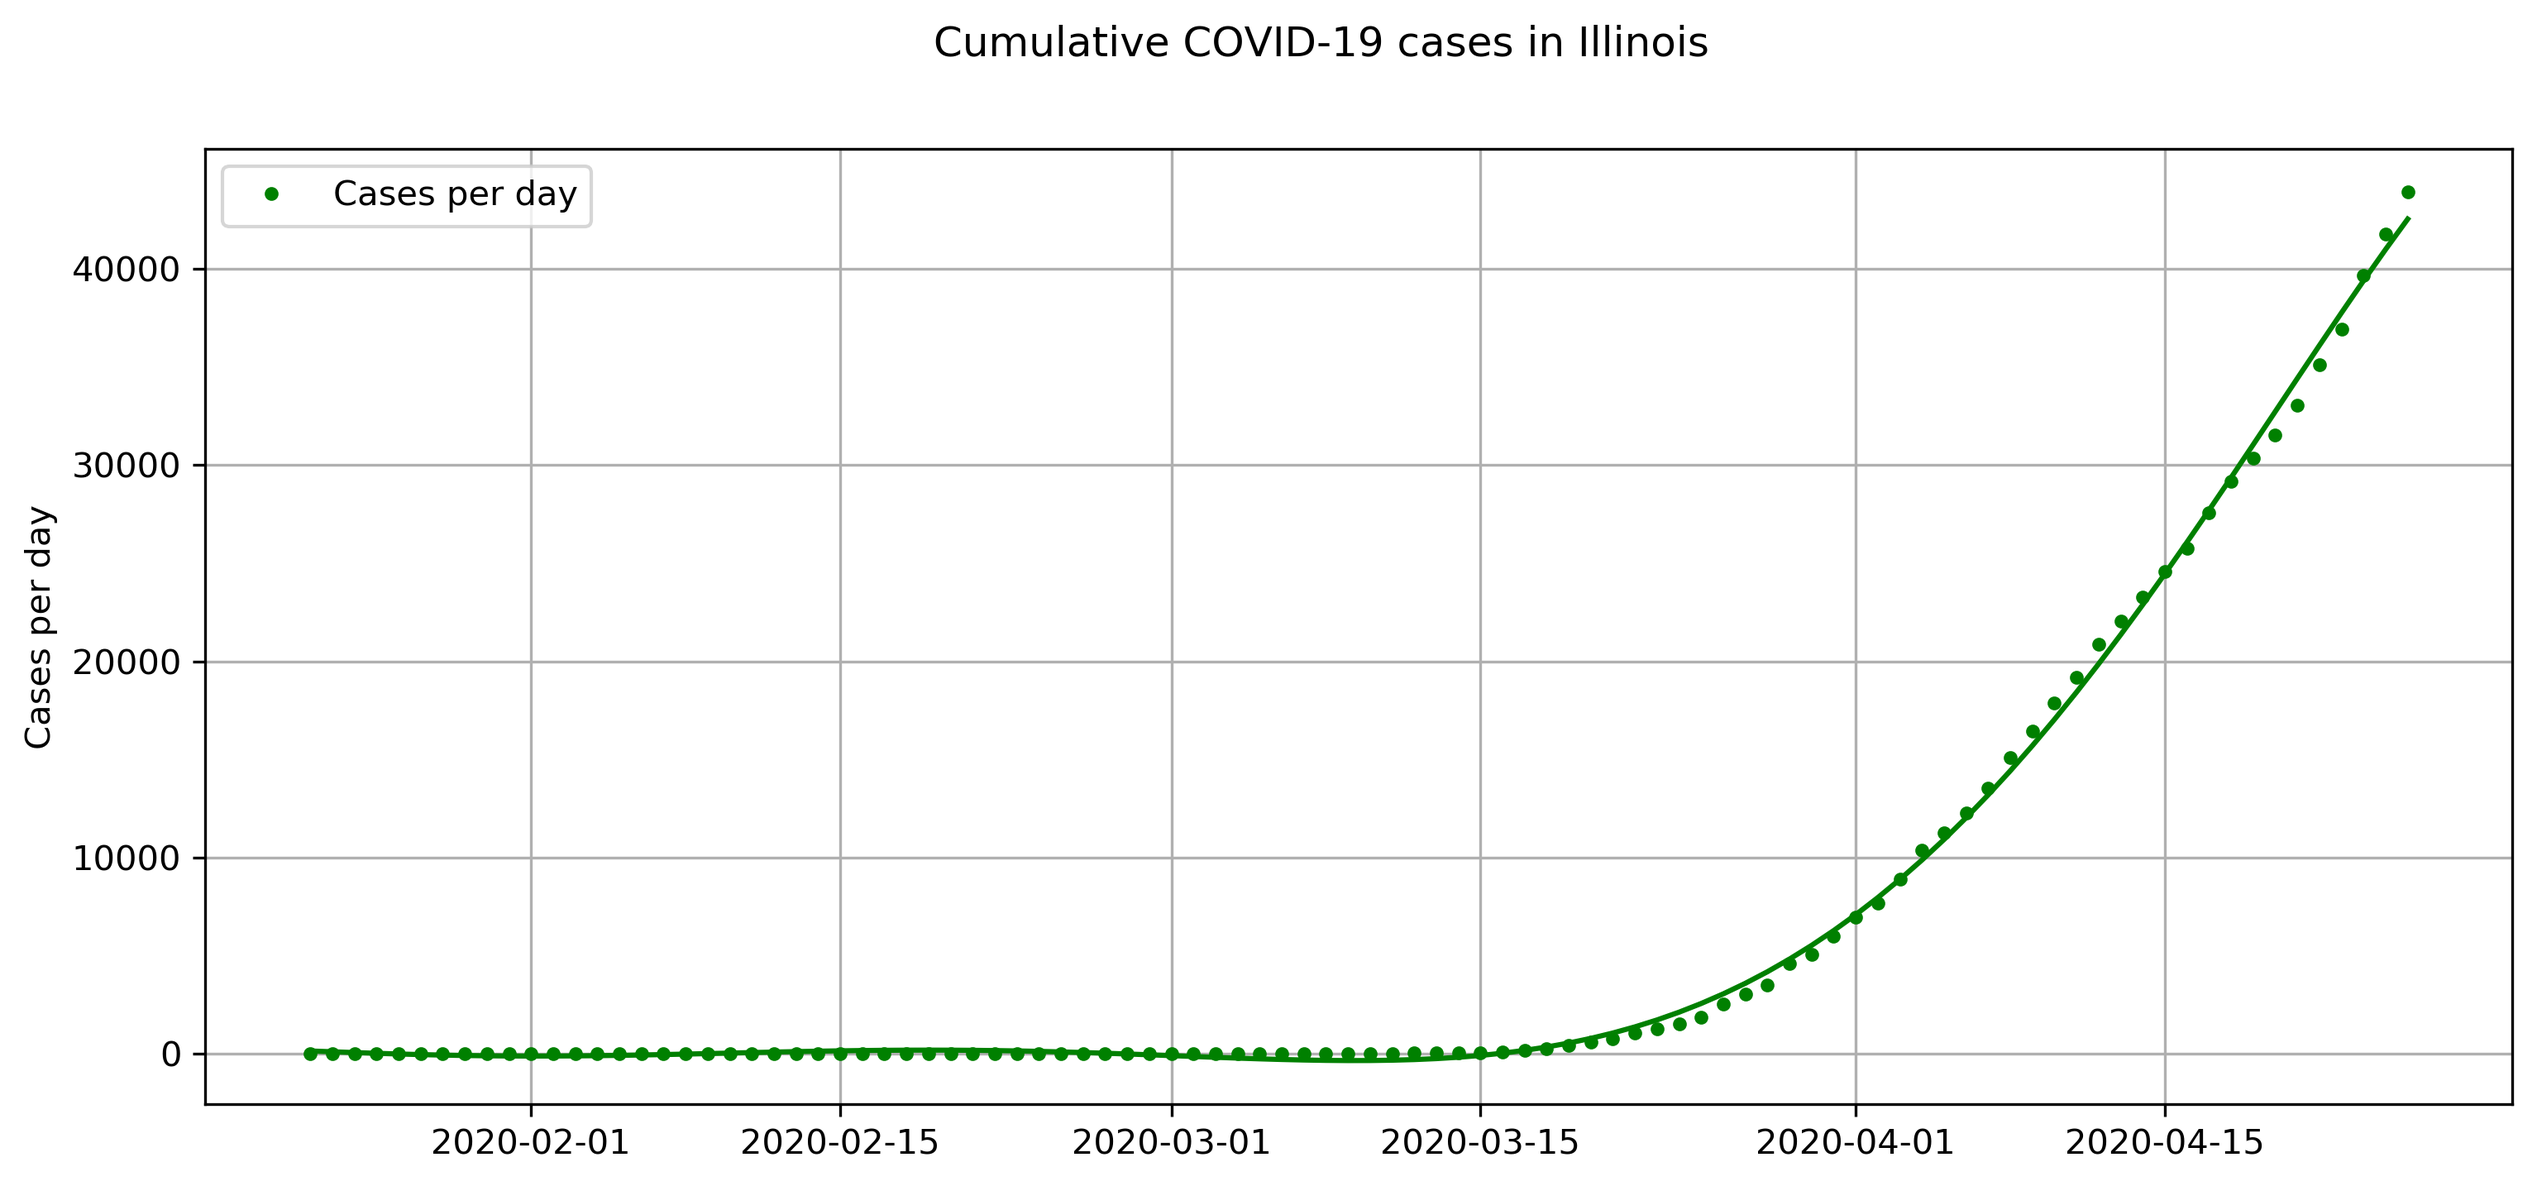
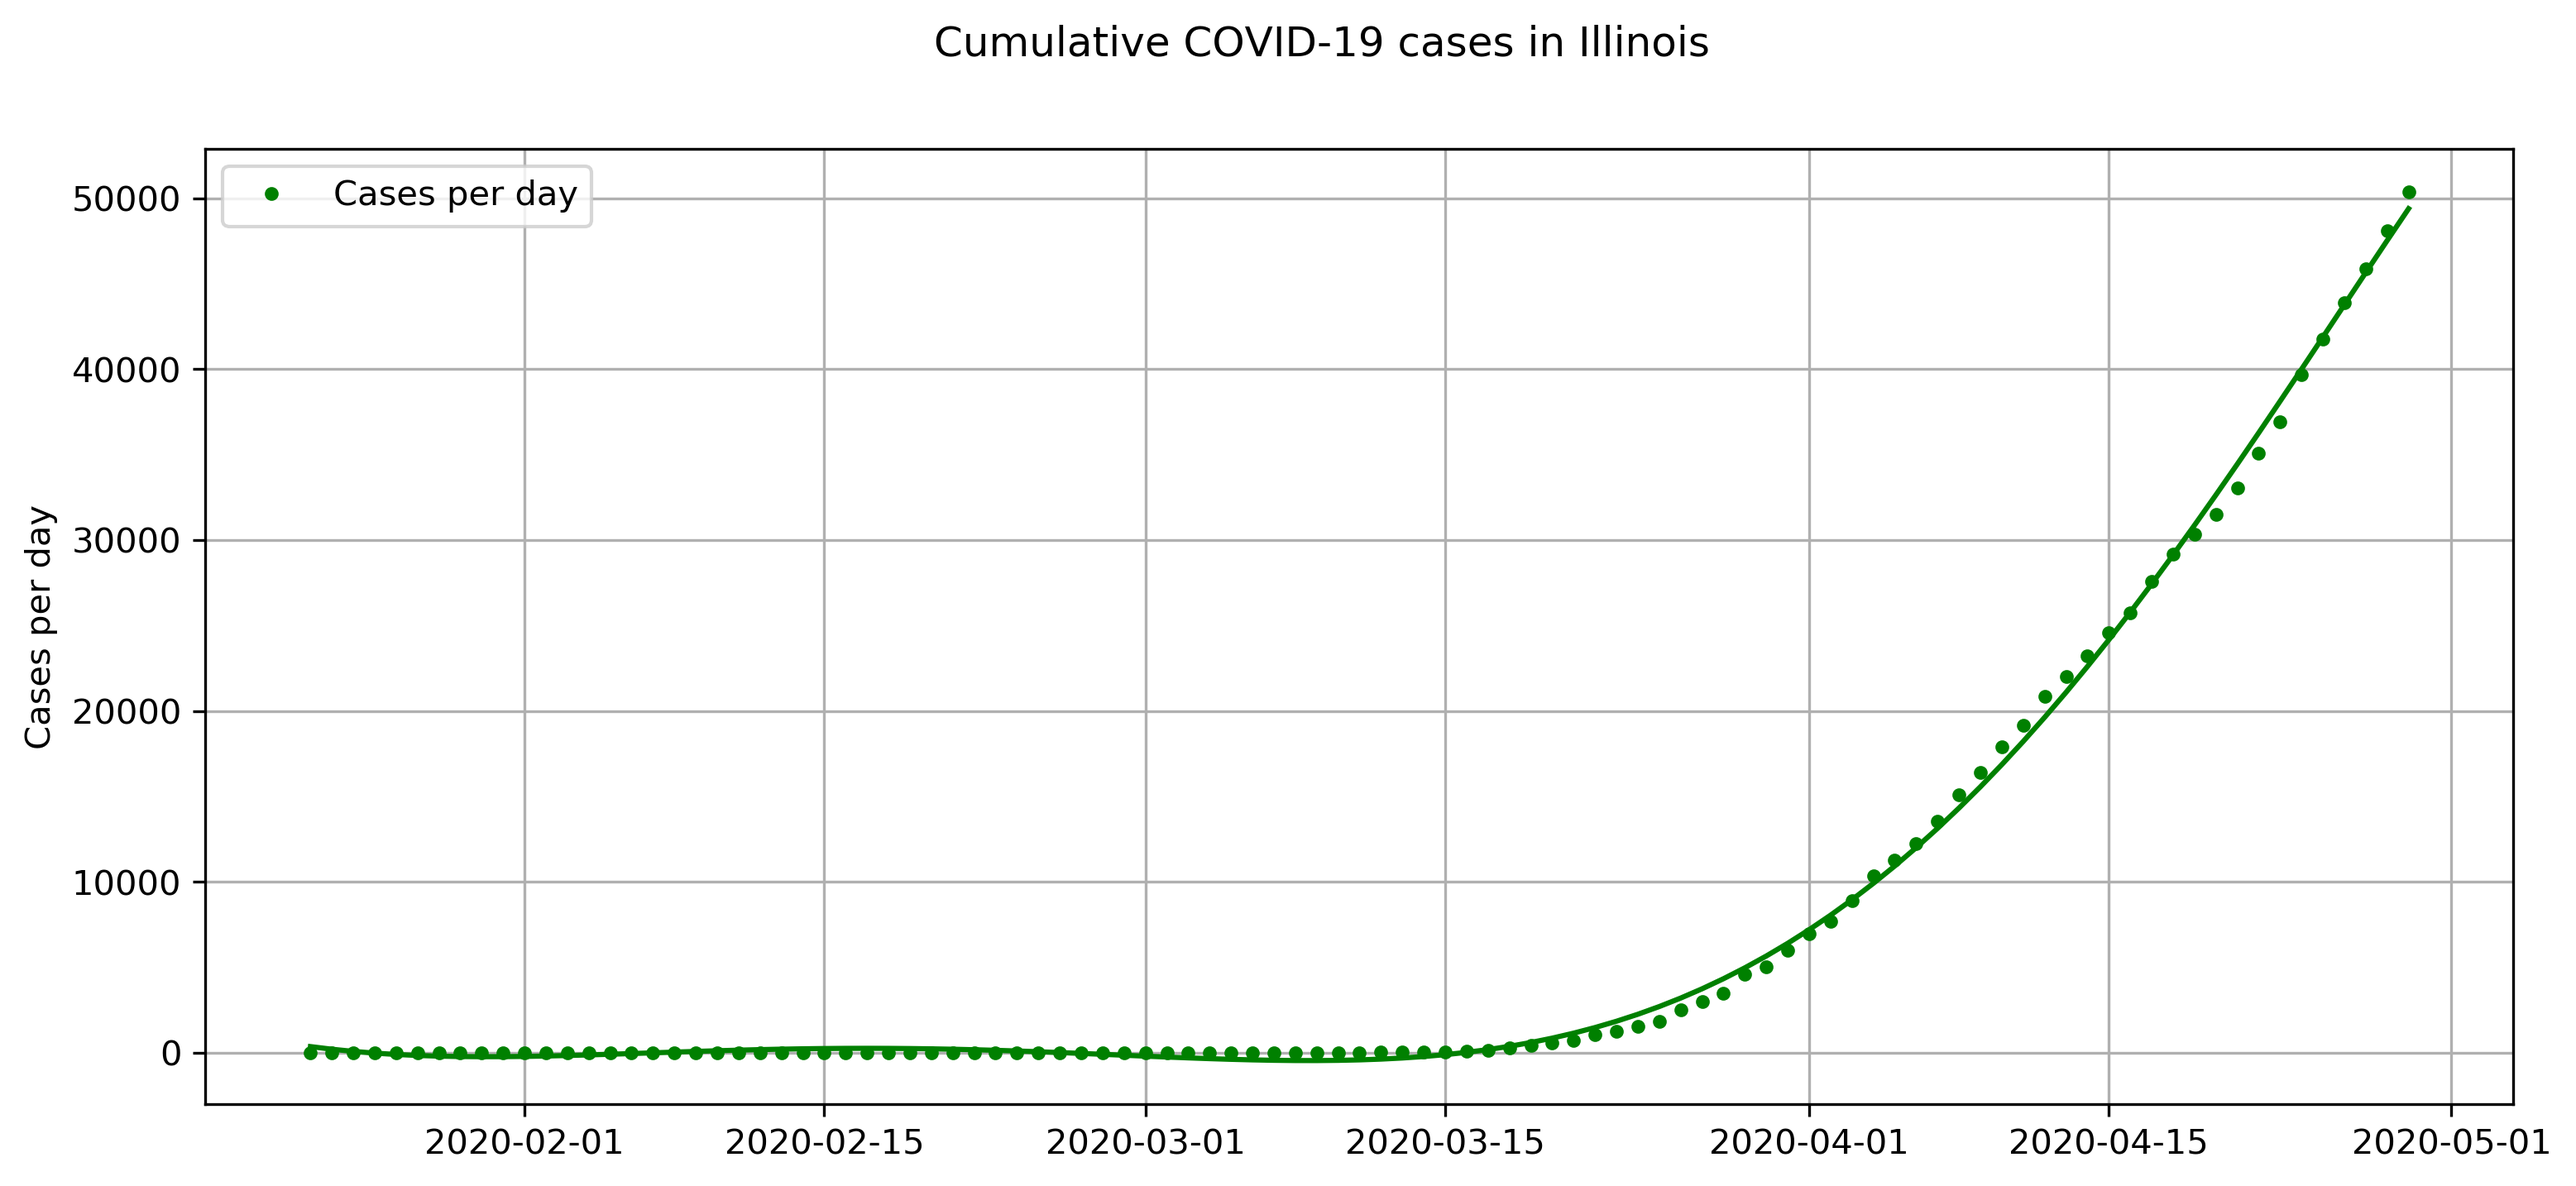
updated 29 apr data.

diff --git a/code/code.py b/code/code.py
@@ -13,10 +13,10 @@ if __name__ == '__main__':
     
     # Illinois state (default)
     state = 'Illinois'
-    filename = 'illinois_26apr.png'
+    filename = 'illinois_29apr.png'
     illinois_cases = slice_fit(casedf)
     illinois_deaths = slice_fit(deathdf)
-    plot(deathdf=illinois_deaths, casedf=illinois_deaths, saveloc=os.path.join(datapath, filename))
+    plot(deathdf=illinois_deaths, casedf=illinois_cases, saveloc=os.path.join(datapath, filename))
 
     # Illinois cases (cumulative)
     state = 'Illinois'
@@ -25,7 +25,7 @@ if __name__ == '__main__':
     
     # California state
     state = 'California'
-    filename = 'cali_26apr.png'
+    filename = 'cali_29apr.png'
     cali_cases = slice_fit(casedf, state=state, polydeg=8)
     plot(casedf=cali_cases, state=state, saveloc=os.path.join(datapath, filename))
 
